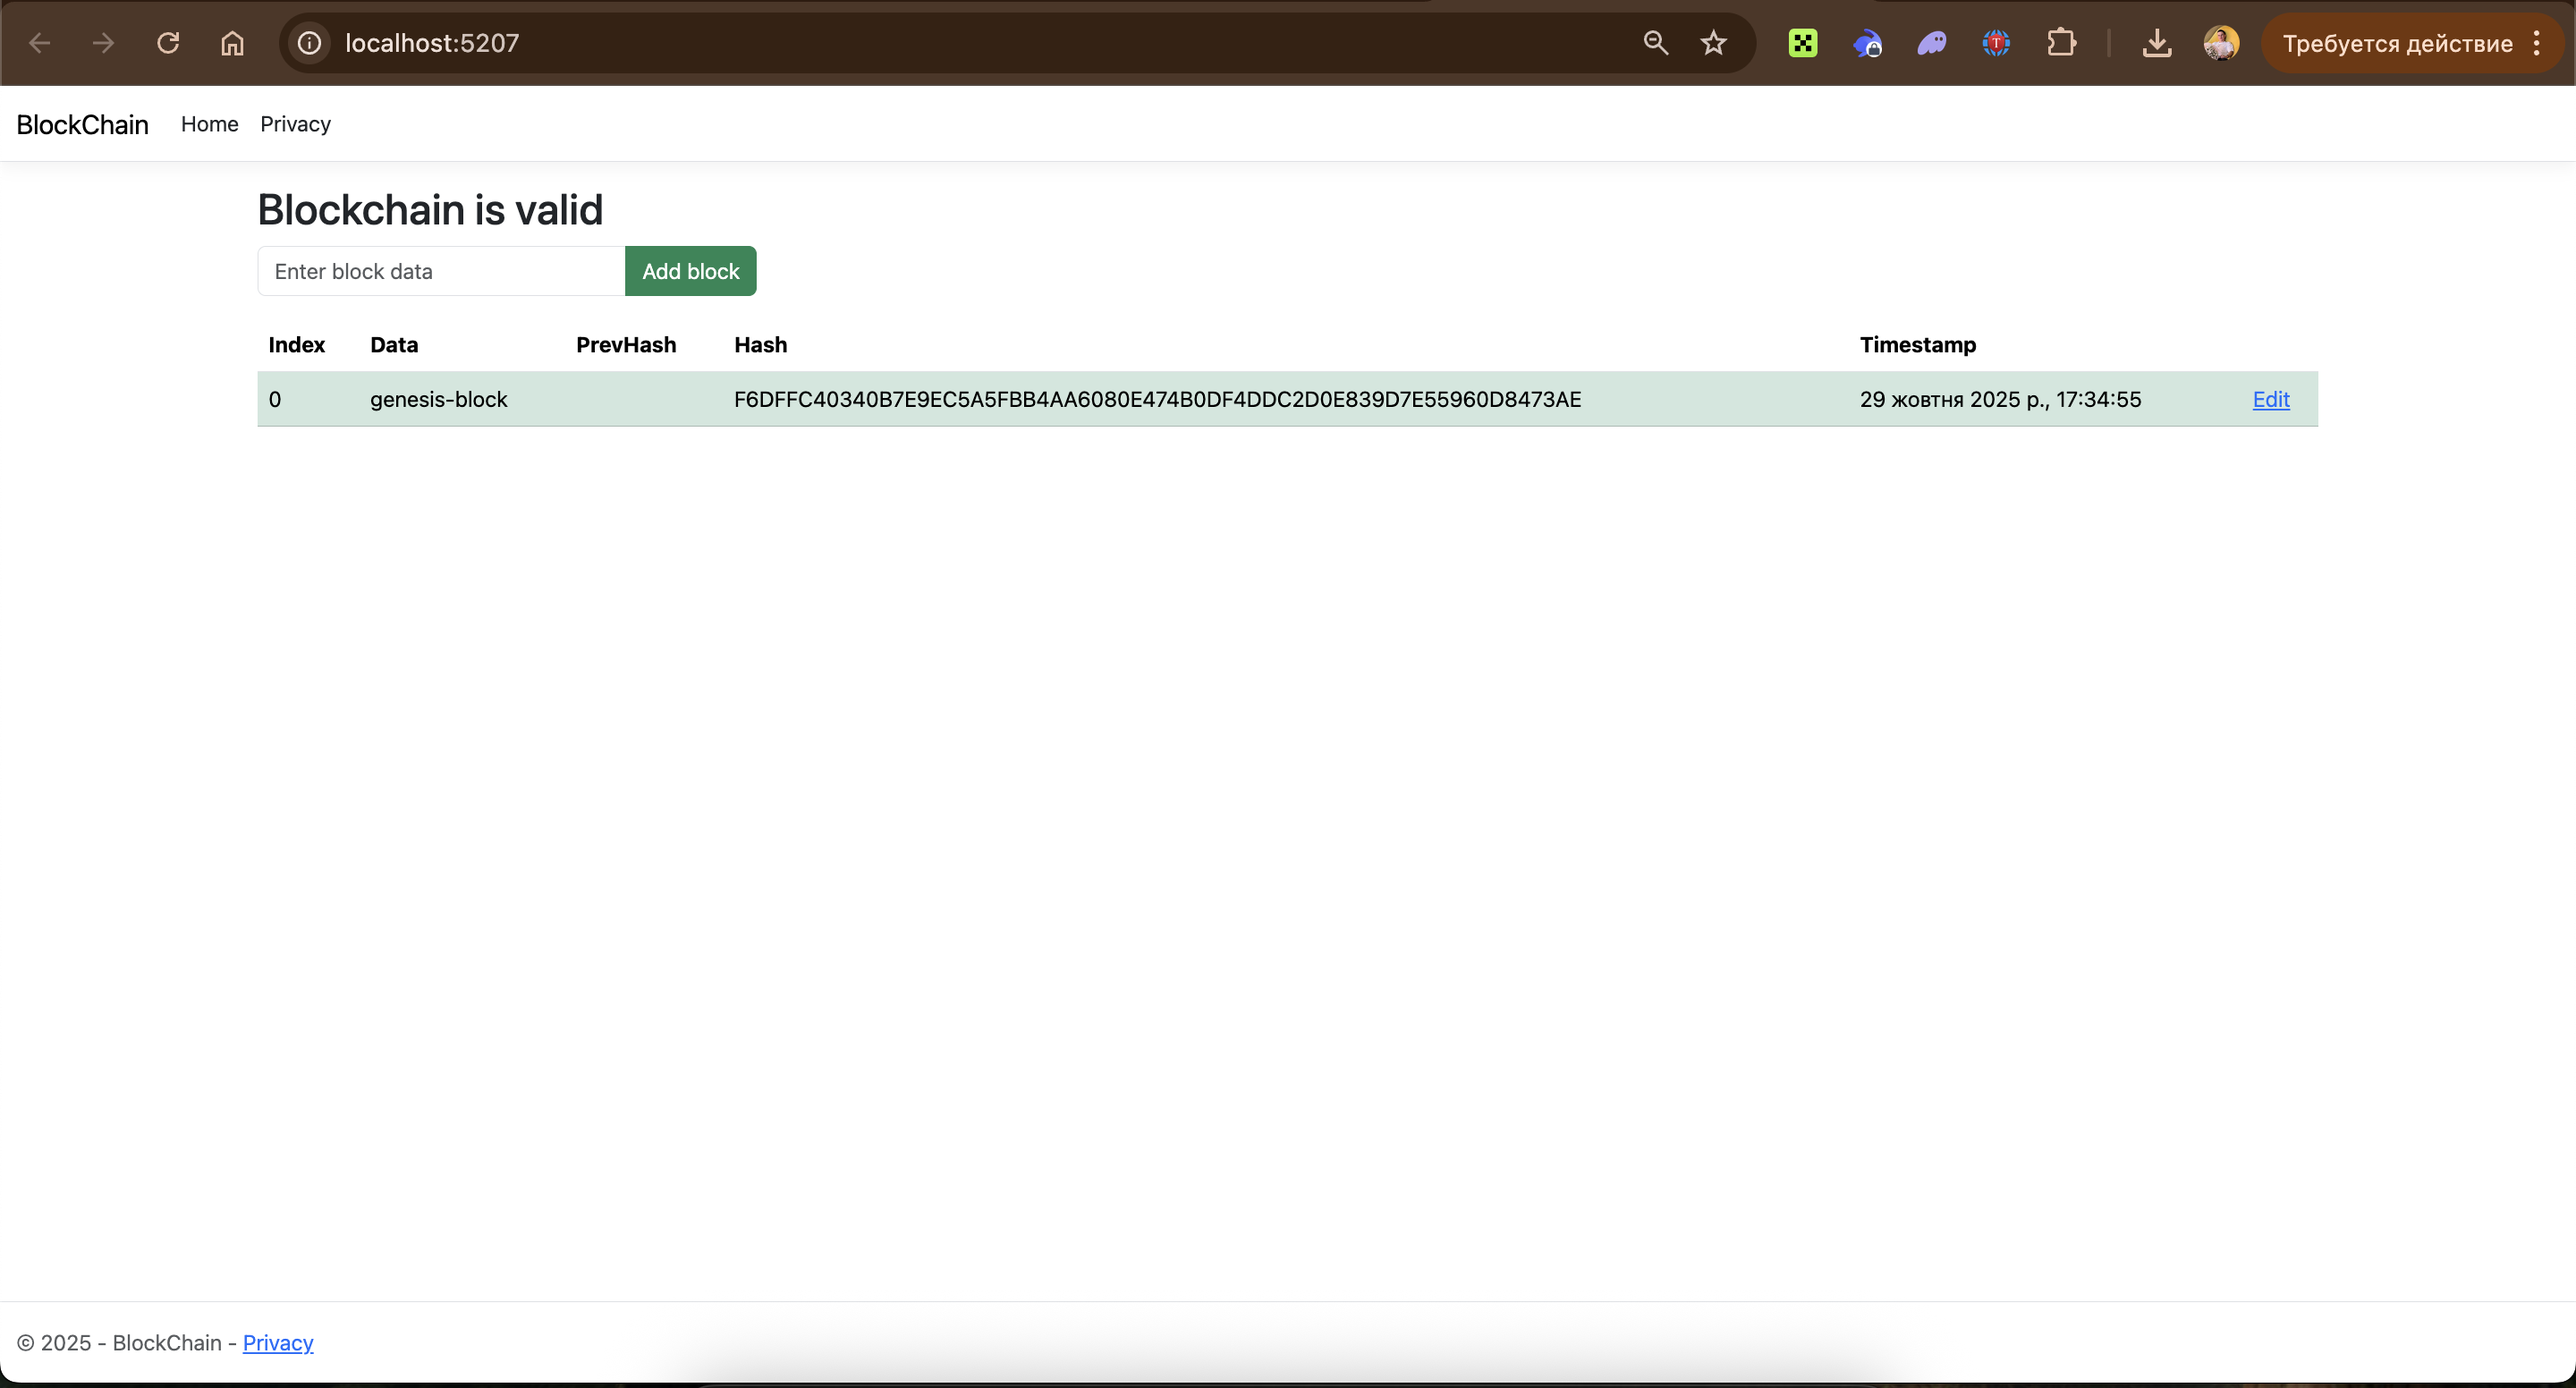
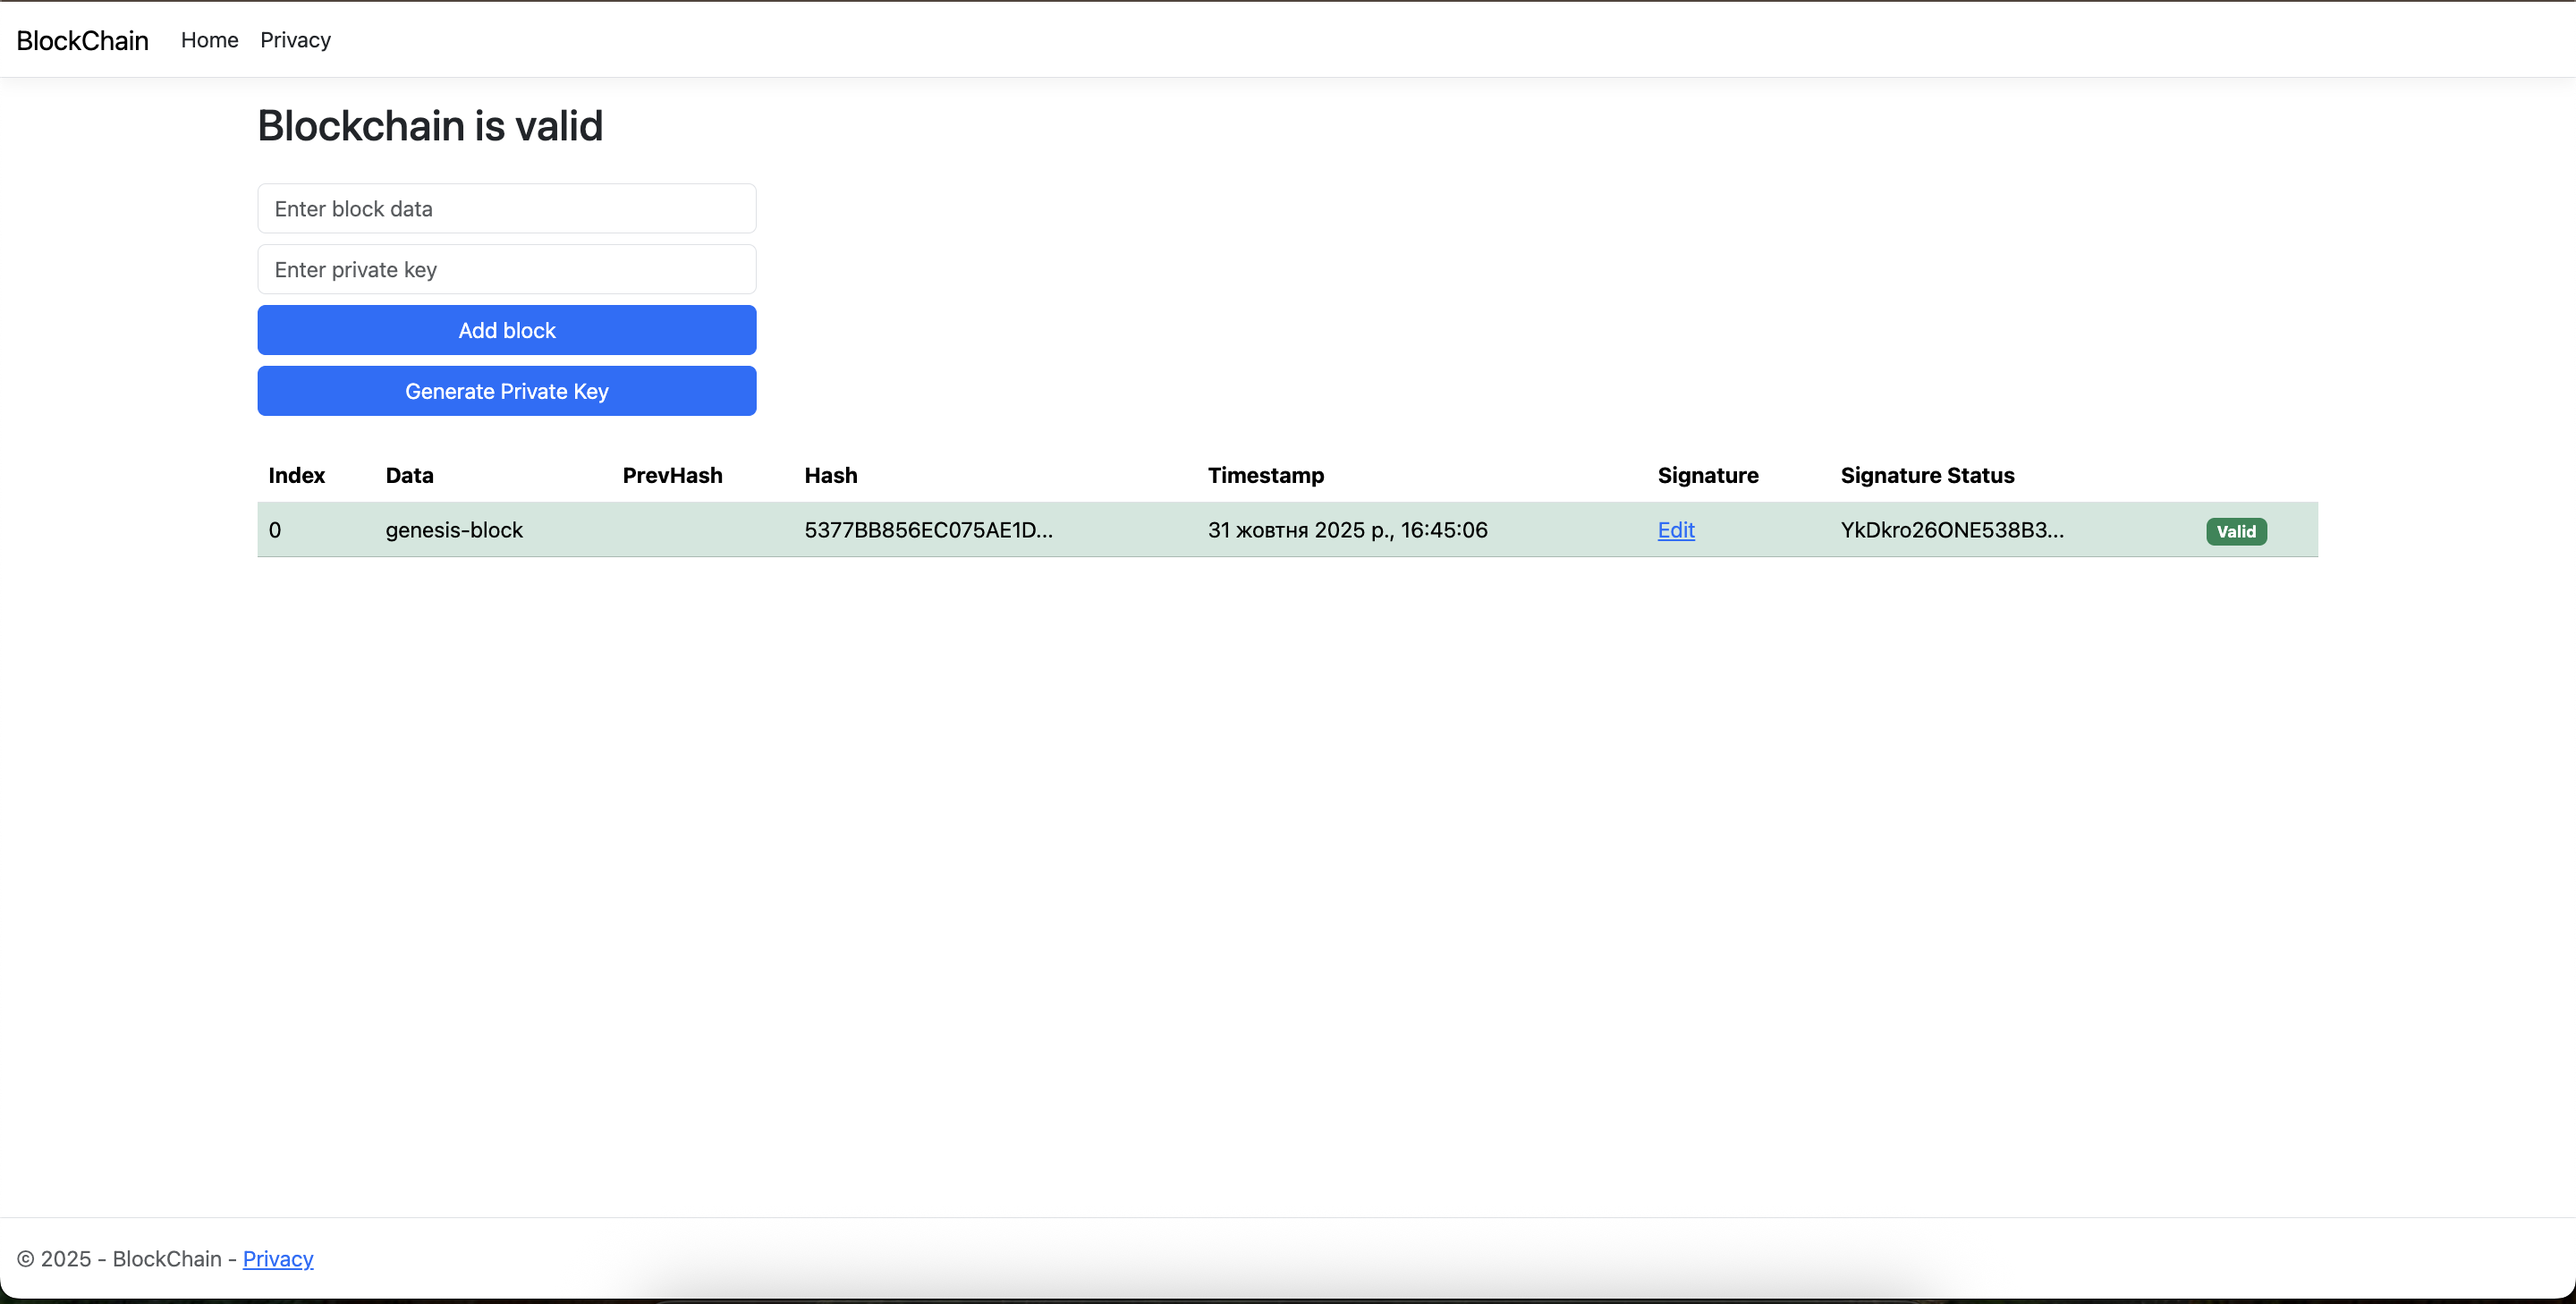
hw_2

diff --git a/Services/BlockChainService.cs b/Services/BlockChainService.cs
@@ -1,4 +1,5 @@
-using BlockChain.Data;
+using System.Security.Cryptography;
+using BlockChain.Data;
 using BlockChain.Models;
 using Microsoft.EntityFrameworkCore;
 
@@ -18,16 +19,35 @@ public class BlockChainService
         return await _context.Blocks.OrderBy(b => b.Index).ToListAsync();
     }
 
-    public async Task AddBlockAsync(string data)
+    public async Task AddBlockAsync(string data, string privateKeyXml)
     {
-        var blocks = await GetAllBlocksAsync();
-        var prevBlock = blocks.LastOrDefault();
+        try
+        {
+            var blocks = await GetAllBlocksAsync();
+            var prevBlock = blocks.LastOrDefault();
 
-        if (prevBlock == null) return;
+            if (prevBlock == null) return;
 
-        var newBlock = new Block(blocks.Count, data, prevBlock.Hash);
-        _context.Blocks.Add(newBlock);
-        await _context.SaveChangesAsync();
+            var newBlock = new Block(blocks.Count, data, prevBlock.Hash);
+
+            var publicKeyXml = GetPublicKeyFromPrivate(privateKeyXml);
+            if (string.IsNullOrEmpty(publicKeyXml))
+                throw new Exception("Public key could not be found.");
+
+            using var rsa = RSA.Create();
+            rsa.FromXmlString(privateKeyXml);
+            var privateParams = rsa.ExportParameters(true);
+
+            newBlock.Sign(privateParams, publicKeyXml);
+
+            _context.Blocks.Add(newBlock);
+            await _context.SaveChangesAsync();
+        }
+        catch (Exception e)
+        {
+            Console.WriteLine($"[AddBlockAsync] {e.GetType().Name}: {e.Message}");
+            throw new ApplicationException("Invalid private key. Please try again with a valid key.");
+        }
     }
 
     public async Task<Block?> GetBlockByIndexAsync(int index)
@@ -99,5 +119,36 @@ public class BlockChainService
         }
 
         return result;
+    }
+    
+    public string GeneratePrivateKeyXml()
+    {
+        using var rsa = RSA.Create();
+        return rsa.ToXmlString(true);
+    }
+    
+    public string? GetPublicKeyFromPrivate(string privateKeyXml)
+    {
+        try
+        {
+            using var rsa = RSA.Create();
+            rsa.FromXmlString(privateKeyXml);
+            return rsa.ToXmlString(false);
+        }
+        catch (Exception ex)
+        {
+            Console.WriteLine($"[GetPublicKeyFromPrivate] Invalid key: {ex.Message}");
+            return null;
+        }
+    }
+
+    public async Task<List<BlockValidationViewModel>> GetSignatureValidationAsync()
+    {
+        var blocks = await GetAllBlocksAsync();
+        return blocks.Select(b => new BlockValidationViewModel
+        {
+            Block = b,
+            IsValid = b.Verify()
+        }).ToList();
     }
 }

diff --git a/Controllers/BlockChainController.cs b/Controllers/BlockChainController.cs
@@ -1,4 +1,5 @@
-using BlockChain.Services;
+using BlockChain.Models;
+using BlockChain.Services;
 using Microsoft.AspNetCore.Mvc;
 
 namespace BlockChain.Controllers;
@@ -14,16 +15,57 @@ public class BlockChainController : Controller
 
     public async Task<IActionResult> Index()
     {
+        ViewBag.AlertMessage = TempData["Message"];
+        ViewBag.AlertType = TempData["Type"];
+        
         var validatedBlocks = await _blockChainService.GetValidatedBlocksAsync();
-        ViewBag.IsChainValid = await _blockChainService.IsValidAsync();
-        return View(validatedBlocks);
+        var isSignatureValid = await _blockChainService.GetSignatureValidationAsync();
+        
+        var model = validatedBlocks.Select((block, i) => new BlockValidationViewModel
+        {
+            Block = block.Block,
+            IsValid = block.IsValid,
+            IsSignatureValid = isSignatureValid[i].IsValid
+        }).ToList();
+
+        ViewBag.IsChainValid = model.All(b => b.IsValid);
+        
+        return View(model);
     }
 
     [HttpPost]
-    public async Task<IActionResult> Add(string data)
+    public async Task<IActionResult> Add(string data, string privateKey)
     {
-        await _blockChainService.AddBlockAsync(data);
-        return RedirectToAction(nameof(Index));
+        if (string.IsNullOrWhiteSpace(data) || string.IsNullOrWhiteSpace(privateKey))
+        {
+            TempData["Message"] = "Please enter both data and private key.";
+            TempData["Type"] = "Error";
+            return RedirectToAction(nameof(Index));
+        }
+
+        try
+        {
+            await _blockChainService.AddBlockAsync(data, privateKey);
+            TempData["Message"] = "Block successfully added.";
+            TempData["Type"] = "Success";
+        }
+        catch (Exception e)
+        {
+            TempData["Message"] = "Error: " + e.Message;
+            TempData["Type"] = "Error";
+        }
+        
+        return RedirectToAction("Index");
+    }
+    
+    [HttpGet]
+    public IActionResult GenerateKey()
+    {
+        var privateKey = _blockChainService.GeneratePrivateKeyXml();
+        if (string.IsNullOrWhiteSpace(privateKey))
+            return BadRequest("Error generating key");
+
+        return Content(privateKey, "text/plain");
     }
 
     [HttpGet]
@@ -33,7 +75,7 @@ public class BlockChainController : Controller
         if (block == null) return NotFound();
         return View(block);
     }
-
+    
     [HttpPost]
     public async Task<IActionResult> Edit(int index, string data)
     {

diff --git a/Models/Block.cs b/Models/Block.cs
@@ -13,6 +13,9 @@ public class Block
     public string PrevHash { get; set; }
     public string Hash { get; set; }
     public DateTime Timestamp { get; set; }
+    
+    public string Signature { get; set; }
+    public string PublicKey { get; set; }
 
     public Block()
     {
@@ -35,5 +38,41 @@ public class Block
         using var sha = SHA256.Create();
         byte[] bytes = sha.ComputeHash(Encoding.UTF8.GetBytes(raw));
         return BitConverter.ToString(bytes).Replace("-", "");
+    }
+
+    public void Sign(RSAParameters privateKey, string publicKey)
+    {
+        var rsa = RSA.Create();
+        rsa.ImportParameters(privateKey);
+        
+        byte[] data = Encoding.UTF8.GetBytes(Hash);
+        byte[] sig = rsa.SignData(data, HashAlgorithmName.SHA256, RSASignaturePadding.Pkcs1);
+        Signature = Convert.ToBase64String(sig);
+        PublicKey = publicKey;
+    }
+
+    public bool Verify()
+    {
+        if (string.IsNullOrWhiteSpace(Signature)) return false;
+
+        try
+        {
+            var rsa = RSA.Create();
+            rsa.FromXmlString(PublicKey);
+            
+            byte[] data = Encoding.UTF8.GetBytes(Hash);
+            byte[] sig = Convert.FromBase64String(Signature);
+            return rsa.VerifyData(data, sig, HashAlgorithmName.SHA256, RSASignaturePadding.Pkcs1);
+        }
+        catch (Exception e)
+        {
+            Console.WriteLine(e);
+            return false;
+        }
+    }
+    
+    public void UpdateSignature(string newSignature)
+    {
+        Signature = newSignature;
     }
 }

diff --git a/Data/InitData.cs b/Data/InitData.cs
@@ -1,3 +1,4 @@
+using System.Security.Cryptography;
 using BlockChain.Models;
 
 namespace BlockChain.Data;
@@ -8,7 +9,13 @@ public static class InitData
     {
         if (!context.Blocks.Any())
         {
+            using var rsa = RSA.Create(2048);
+            var privateKey = rsa.ExportParameters(true);
+            var publicKey = rsa.ToXmlString(false);
+            
             var genBlock = new Block(0, "genesis-block", "");
+            genBlock.Sign(privateKey, publicKey);
+            
             context.Blocks.Add(genBlock);
             context.SaveChanges();
         }

diff --git a/Models/BlockValidationViewModel.cs b/Models/BlockValidationViewModel.cs
@@ -4,4 +4,5 @@ public class BlockValidationViewModel
 {
     public Block Block { get; set; } = null!;
     public bool IsValid { get; set; }
+    public bool IsSignatureValid { get; set; }
 }
